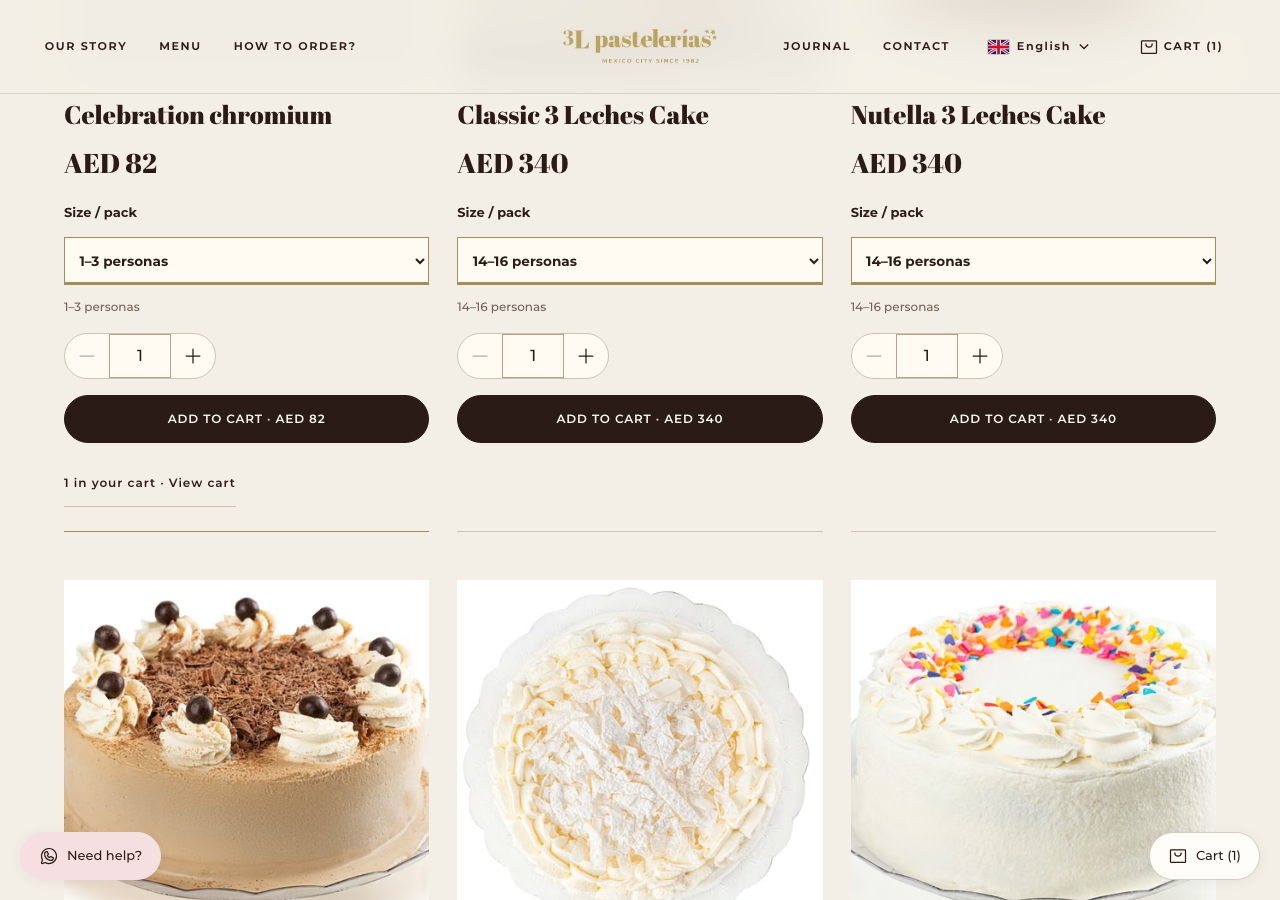
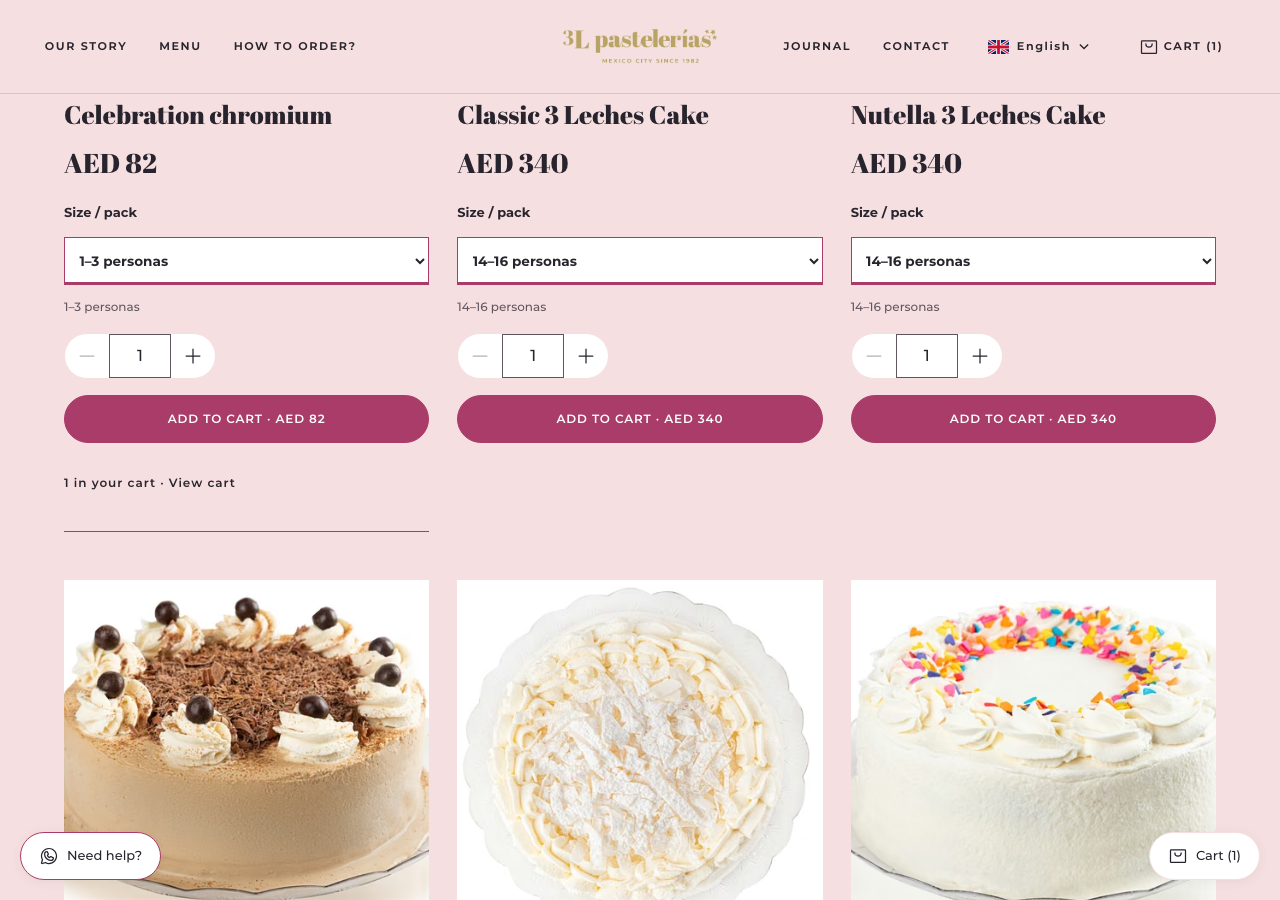
fix(storefront): integrate dynamic catalog over merged BRAND-02 without touching cart.ts
Each menu card reloads the published catalog and its checkout configuration once when they
disagree on price or orderability; a size the published catalog marks unavailable is never
offered. cart.ts, Shop.tsx, media.tsx and CSS are identical to main.

diff --git a/src/brand/MenuCatalog.tsx b/src/brand/MenuCatalog.tsx
@@ -12,12 +12,13 @@ import { CustomerCopy } from "./localization";
 import { availableSku } from "../../shared/commerce-policy";
 import { useEffect, useId, useRef, useState } from "react";
 import { AddToCart } from "./Shop";
+import { useCheckoutConfig, useCheckoutNow } from "./cart";
 import {
-  refreshCheckoutConfig,
-  useCheckoutConfig,
-  useCheckoutNow,
-} from "./cart";
-import { livePhotos, refreshLiveCatalog, type LivePhoto } from "./live-catalog";
+  liveOrderable,
+  livePhotos,
+  refreshLiveCatalog,
+  type LivePhoto,
+} from "./live-catalog";
 import { formatAed } from "./content";
 import {
   menuProductFamily,
@@ -82,20 +83,31 @@ export function ProductOptions({
       ? "/brand/icon.png"
       : family.image;
   const serverProduct = config?.products.find((p) => p.id === option?.id);
+  // With the published catalog, a size it marks unavailable is never offered.
+  const orderable = option ? liveOrderable(option.id) : null;
   const ready =
-    !!option && !!serverProduct && serverProduct.priceFils === option.priceFils;
-  // Published data and checkout disagree only across a publication: reload both, once.
+    !!option &&
+    !!serverProduct &&
+    serverProduct.priceFils === option.priceFils &&
+    orderable !== false;
+  // The published catalog and checkout disagree only across a publication: this
+  // card reloads both, once per disagreement.
   const disagreement =
-    menu.status === "live" && option && serverProduct && !ready
-      ? `${option.id}:${option.priceFils}:${serverProduct.priceFils}`
+    menu.status === "live" &&
+    option &&
+    config &&
+    !loading &&
+    (orderable !== !!serverProduct ||
+      (serverProduct && serverProduct.priceFils !== option.priceFils))
+      ? `${option.id}:${option.priceFils}:${orderable}:${serverProduct?.priceFils}`
       : null;
   const reloaded = useRef<string | null>(null);
   useEffect(() => {
     if (!disagreement || reloaded.current === disagreement) return;
     reloaded.current = disagreement;
     void refreshLiveCatalog();
-    refreshCheckoutConfig();
-  }, [disagreement]);
+    retry();
+  }, [disagreement, retry]);
   // Photographs changed in Product Hub replace the build's; unchanged ones keep the
   // approved presentation (crops, rotation) exactly as authored.
   const published = livePhotos(product.id);
@@ -201,7 +213,8 @@ export function ProductOptions({
         </p>
       ) : ready ? (
         <AddToCart
-          key={option.id}
+          // Remounts on a new server price so the button never shows the old one.
+          key={`${option.id}:${serverProduct.priceFils}`}
           productId={option.id}
           fallback={
             <p>

diff --git a/src/brand/cart.ts b/src/brand/cart.ts
@@ -4,7 +4,6 @@
  * quote, and the server re-prices the cart again before any payment.
  */
 import { useEffect, useState, useSyncExternalStore } from "react";
-import { onRevisionChange } from "./live-catalog";
 
 export type CartLine = { productId: string; quantity: number };
 import { MAX_ITEM_QUANTITY } from "../../shared/commerce-policy";
@@ -154,19 +153,6 @@ function loadConfig(force = false) {
       .catch(() => null);
   return configPromise;
 }
-let configGeneration = 0;
-const configListeners = new Set<() => void>();
-const subscribeConfig = (fn: () => void) => {
-  configListeners.add(fn);
-  return () => configListeners.delete(fn);
-};
-/** Fetches the checkout configuration again for every component using it. */
-export function refreshCheckoutConfig() {
-  void loadConfig(true);
-  configGeneration++;
-  configListeners.forEach((l) => l());
-}
-onRevisionChange(refreshCheckoutConfig);
 /** Checkout availability, shared by every component on the page. */
 export function useCheckoutConfig() {
   const [state, setState] = useState<{
@@ -174,12 +160,6 @@ export function useCheckoutConfig() {
     loading: boolean;
   }>({ config: null, loading: true });
   const [attempt, setAttempt] = useState(0);
-  // A newly published catalog revision re-prices every component at once.
-  const generation = useSyncExternalStore(
-    subscribeConfig,
-    () => configGeneration,
-    () => 0,
-  );
   useEffect(() => {
     let active = true;
     void loadConfig(attempt > 0).then((config) => {
@@ -188,7 +168,7 @@ export function useCheckoutConfig() {
     return () => {
       active = false;
     };
-  }, [attempt, generation]);
+  }, [attempt]);
   return { ...state, retry: () => setAttempt((n) => n + 1) };
 }
 

diff --git a/src/brand/live-catalog.ts b/src/brand/live-catalog.ts
@@ -98,7 +98,6 @@ let etag: string | null = null;
 let inFlight: Promise<void> | null = null;
 let timer: ReturnType<typeof setTimeout> | undefined;
 const listeners = new Set<() => void>();
-const revisionListeners = new Set<() => void>();
 
 /** Structural check: a malformed answer is treated as no answer. */
 function valid(value: unknown): value is LiveCatalog {
@@ -132,12 +131,9 @@ function valid(value: unknown): value is LiveCatalog {
   );
 }
 function set(next: LiveState) {
-  const before = state.status === "live" ? state.catalog.revision : null;
   state = next;
   overlay = null;
   listeners.forEach((l) => l());
-  const after = next.status === "live" ? next.catalog.revision : null;
-  if (before !== after) revisionListeners.forEach((l) => l());
 }
 function schedule(ms: number) {
   if (timer) clearTimeout(timer);
@@ -192,10 +188,12 @@ export const liveState = () => state;
 export function useLiveCatalog(): LiveState {
   return useSyncExternalStore(subscribe, liveState, () => BUNDLED);
 }
-/** Called when a different published revision arrives (prices may have changed). */
-export function onRevisionChange(fn: () => void) {
-  revisionListeners.add(fn);
-  return () => revisionListeners.delete(fn);
+/** Whether the published catalog offers this SKU now; null when it is not in use. */
+export function liveOrderable(sku: string): boolean | null {
+  if (state.status !== "live") return null;
+  for (const p of state.catalog.products)
+    for (const o of p.options) if (o.id === sku) return o.orderable;
+  return false;
 }
 
 // Published translations for names the build's resources do not know (new or renamed).

diff --git a/docs/product-hub/storefront-dynamic-catalog.md b/docs/product-hub/storefront-dynamic-catalog.md
@@ -71,8 +71,7 @@ published data would show them stale prices.
 - The server marks every HTML page with `<html data-catalog="dynamic">` when adoption is
   on. The client knows before rendering, so the build's catalog is never flashed.
 - `src/brand/live-catalog.ts` fetches the catalog, keeps the `ETag`, and revalidates when
-  the tab regains focus or becomes visible and every 60 seconds. A new revision also
-  reloads the checkout configuration for every component.
+  the tab regains focus or becomes visible and every 60 seconds.
 - `src/brand/menu.ts` adapts the published catalog to the shapes the menu already uses
   (`useMenu`). Existing products keep their authored identity, so approved photography,
   crops and rotations render exactly as before.
@@ -84,15 +83,16 @@ published data would show them stale prices.
 - While the first answer is pending the menu shows the existing loading text; with no
   valid revision it shows the existing "Online ordering is unavailable." and a retry.
   No new customer copy and no CSS was added.
-- If the displayed price and the server's ever differ (a publication between two
-  requests) both are reloaded once; the existing rule that blocks an option whose
-  displayed price is not the server's stays in force.
+- If the published catalog and the checkout configuration ever disagree about a price or
+  about whether a size can be ordered (a publication between two requests), that card
+  reloads both, once; the existing rule that blocks an option whose displayed price is
+  not the server's stays in force, and a size the published catalog marks unavailable is
+  never offered.
 
-Files touched in the customer site: `MenuCatalog.tsx`, `menu.ts`, `cart.ts`,
-`localization.tsx`, new `live-catalog.ts`. None of them is changed by the storefront
-agent's open branch (`feature/3l-brand-v2-conchas-media`, PR #14), which changes CSS,
-media manifests and three lines of `media.tsx`; `media.tsx`, `Shop.tsx` and all CSS are
-untouched here.
+Files touched in the customer site: `MenuCatalog.tsx`, `menu.ts`, `localization.tsx`,
+new `live-catalog.ts`. This branch is integrated on top of the storefront agent's merged
+work (BRAND-02, PR #14): `cart.ts`, `Shop.tsx`, `media.tsx`, menu data, locale files and
+all CSS are byte-identical to `main`, and BRAND-02's own guard test passes.
 
 ## Known limits (not hidden)
 
@@ -128,7 +128,7 @@ untouched here.
    every flag unset. No behaviour changes.
 2. Resolve the 12 stored rows reported by the foundation audit and initialize the
    foundation in Production (`foundation-bootstrap.md`), each write approved.
-3. Merge the storefront agent's PR #14 and re-run this suite on the combined build.
+3. (Done) The storefront agent's PR #14 is merged; this suite passes on the combined build.
 4. Validate on staging with `STOREFRONT_DYNAMIC_CATALOG_ENABLED=true` and a real publication
    (Lisa's review of menu, Spanish and Arabic).
 5. With founder approval set both storefront variables in Production; confirm
